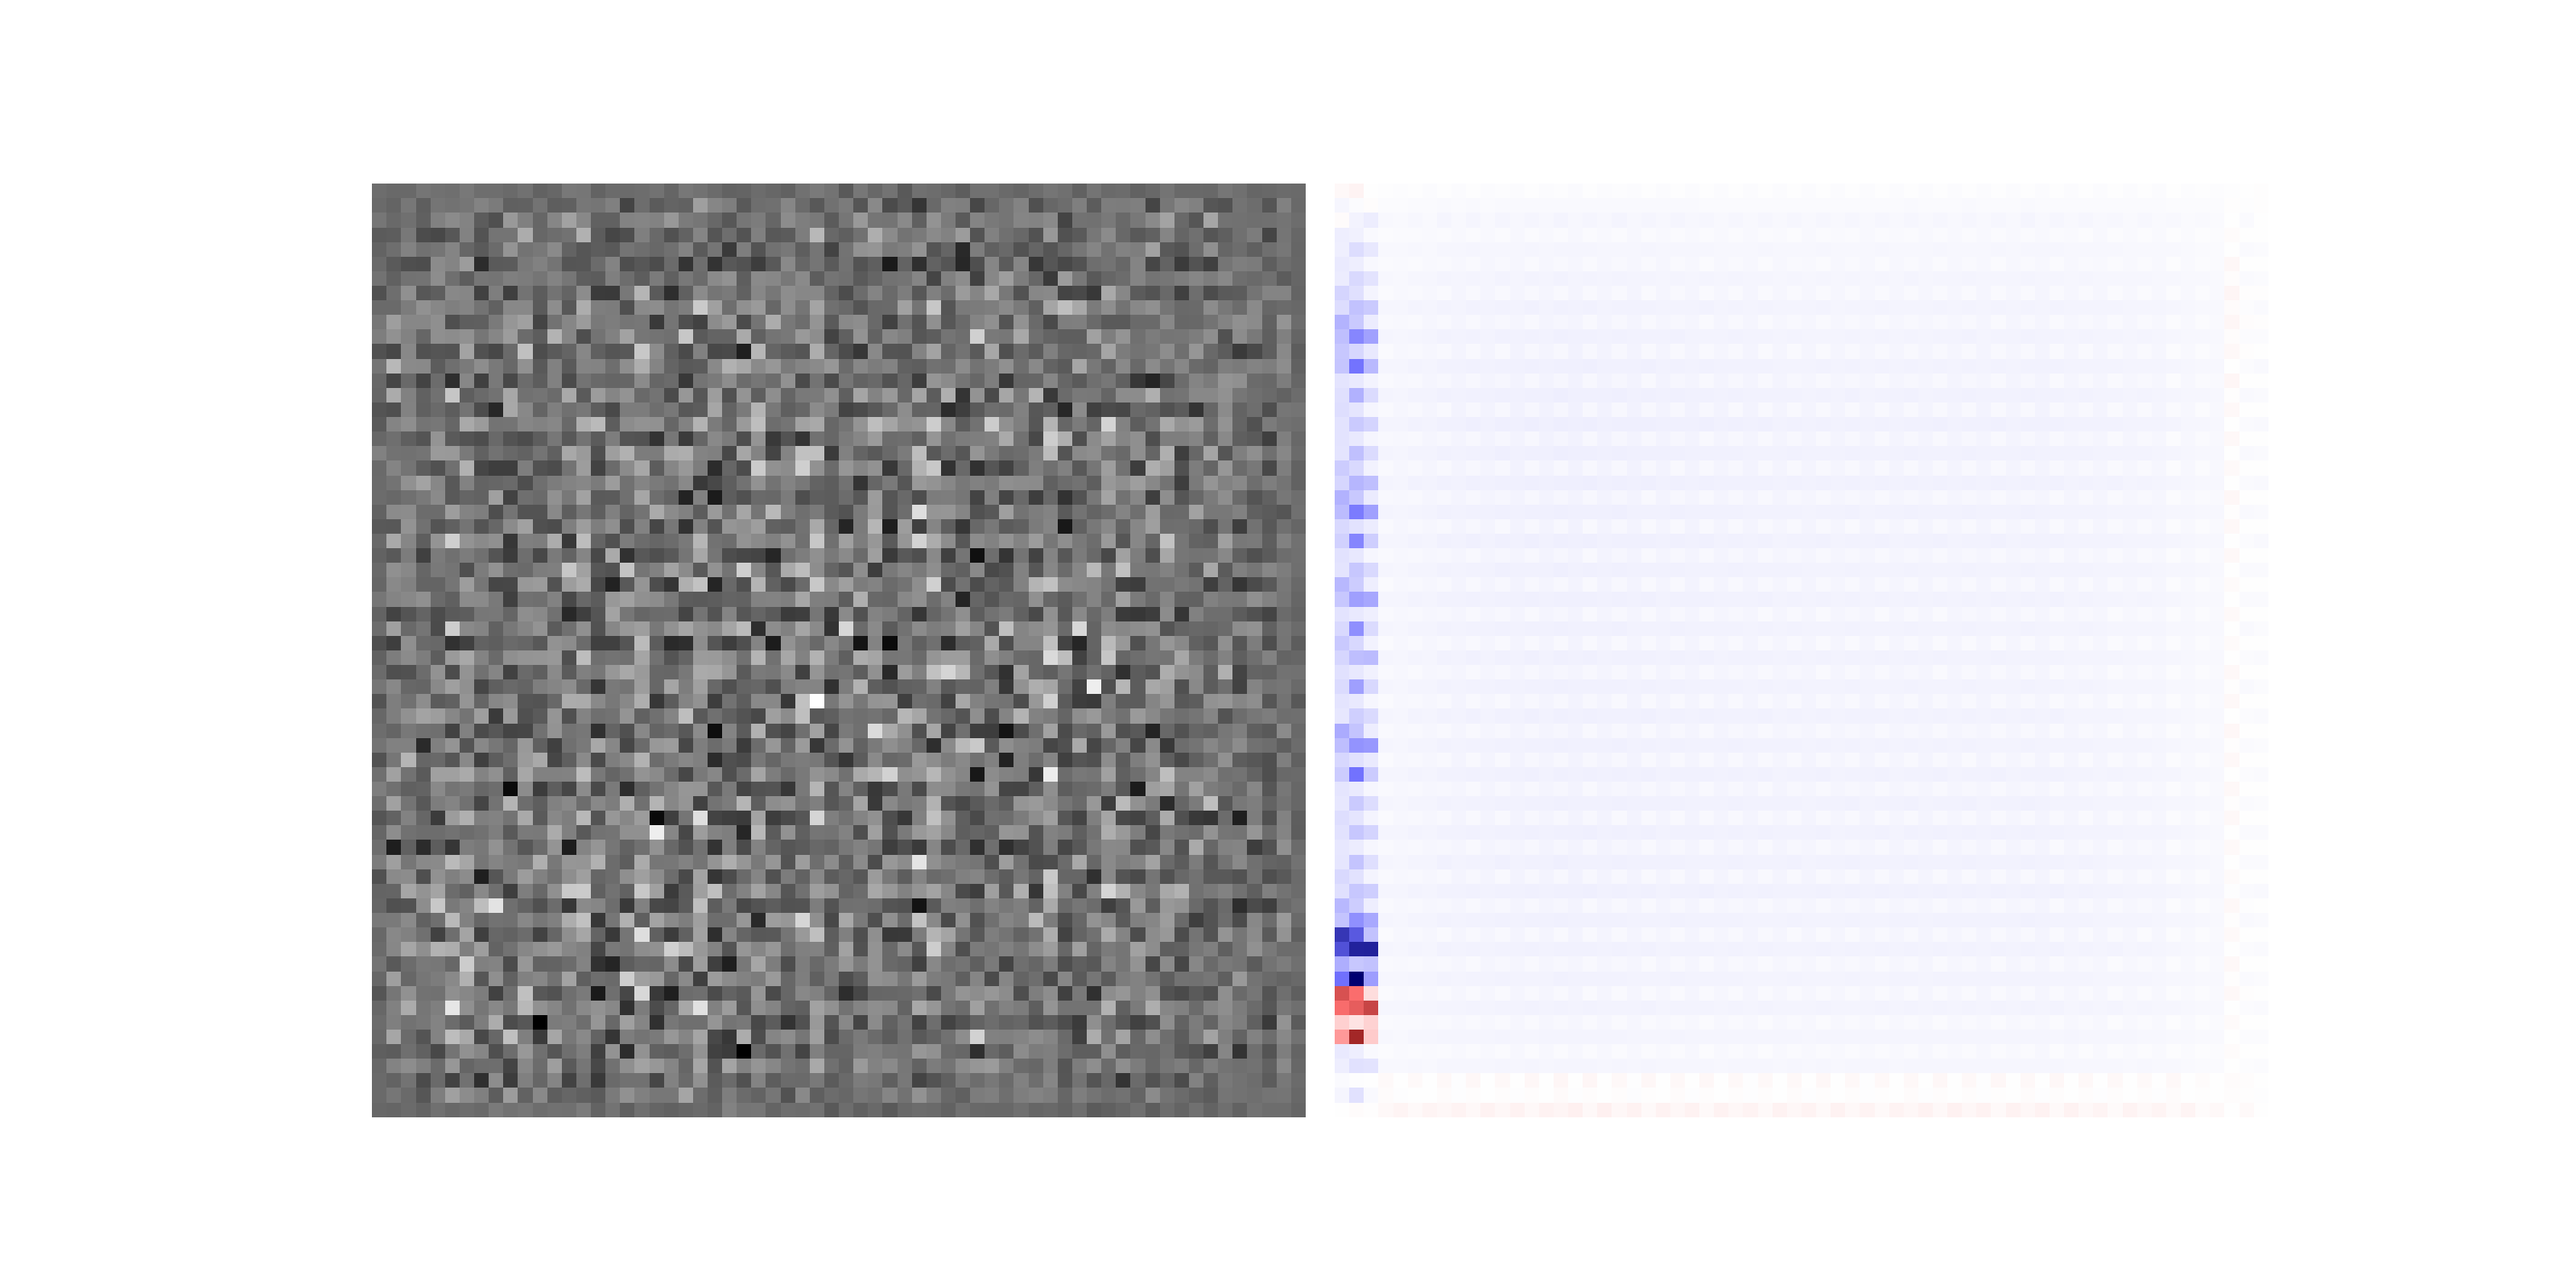
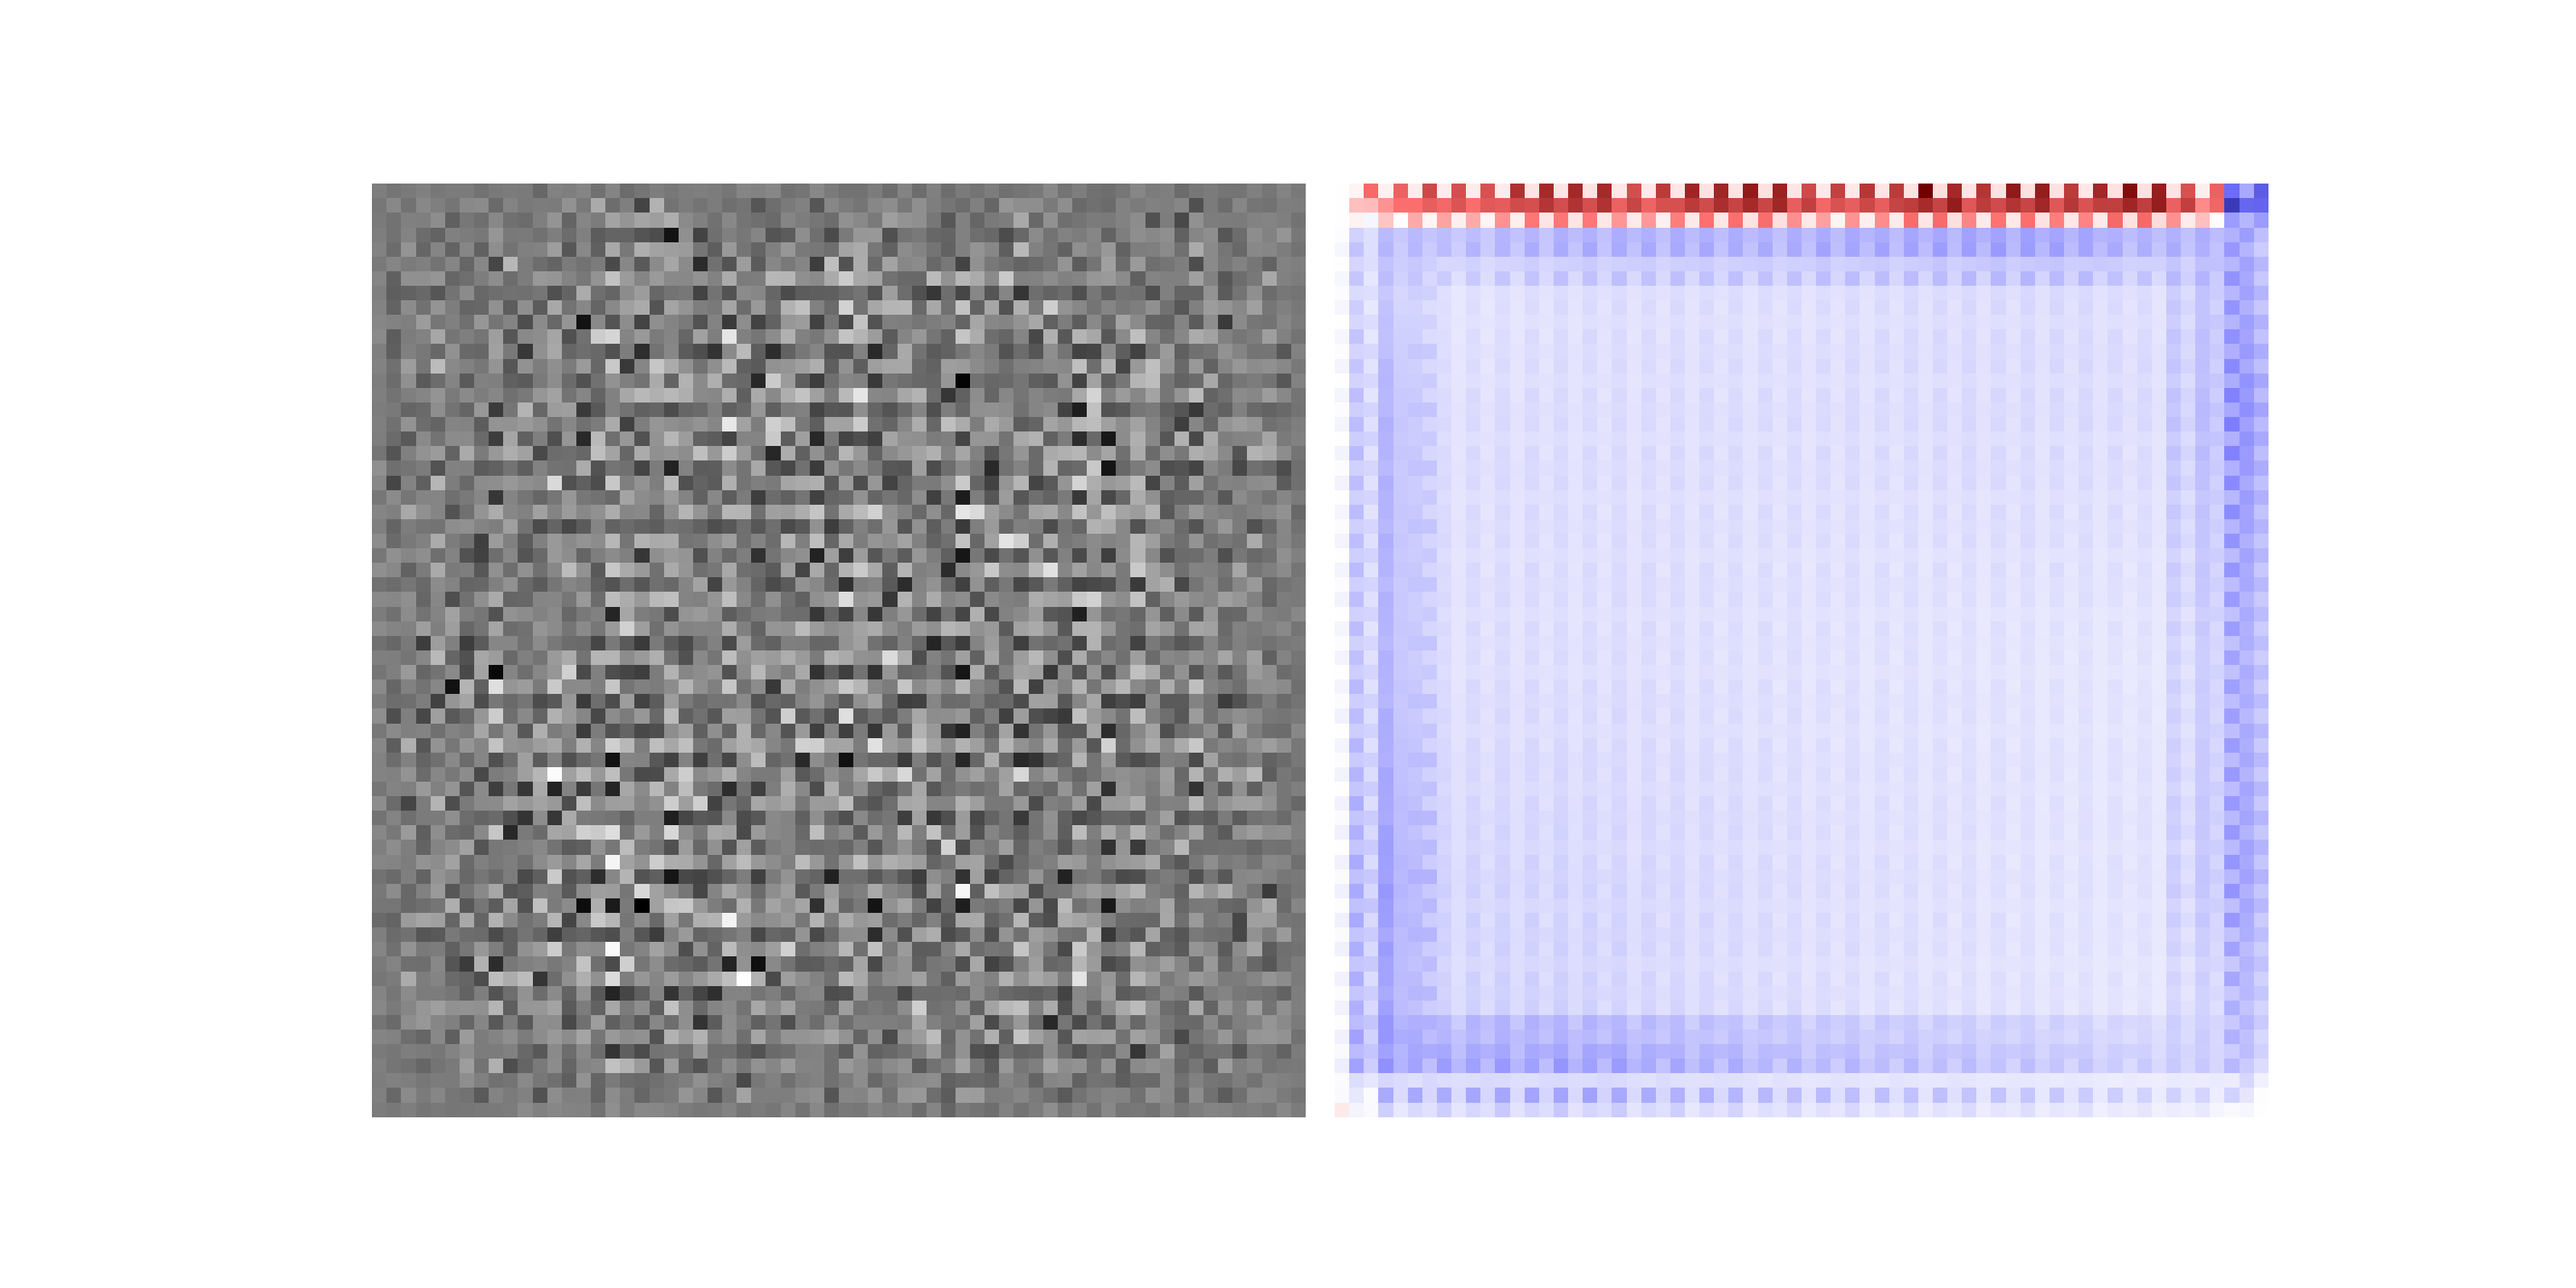
Removed discriminator.eval() and discriminator.train() for relevance propagation

Changed region(s): [[0.125, 0.125, 0.9062, 0.875]]

diff --git a/DCGAN.py b/DCGAN.py
@@ -267,7 +267,7 @@ for epoch in range(opt.epochs):
 
         logger.log(d_error_total, g_err, epoch, n_batch, len(dataloader))
 
-        if n_batch % 100 == 0:
+        if n_batch % 1 == 0:
             # generate fake with fixed noise
             test_fake = generator(fixed_noise)
 
@@ -276,14 +276,14 @@ for epoch in range(opt.epochs):
                 discriminator.setngpu(1)
 
             # eval needs to be set so batch norm works with batch size of 1
-            discriminator.eval()
+            # discriminator.eval()
             test_result = discriminator(test_fake)
             test_relevance = discriminator.relprop()
 
             # set ngpu back to opt.ngpu
             if (opt.ngpu > 1):
                 discriminator.setngpu(opt.ngpu)
-            discriminator.train()
+            # discriminator.train()
 
             # Add up relevance of all color channels
             test_relevance = torch.sum(test_relevance, 1, keepdim=True)
